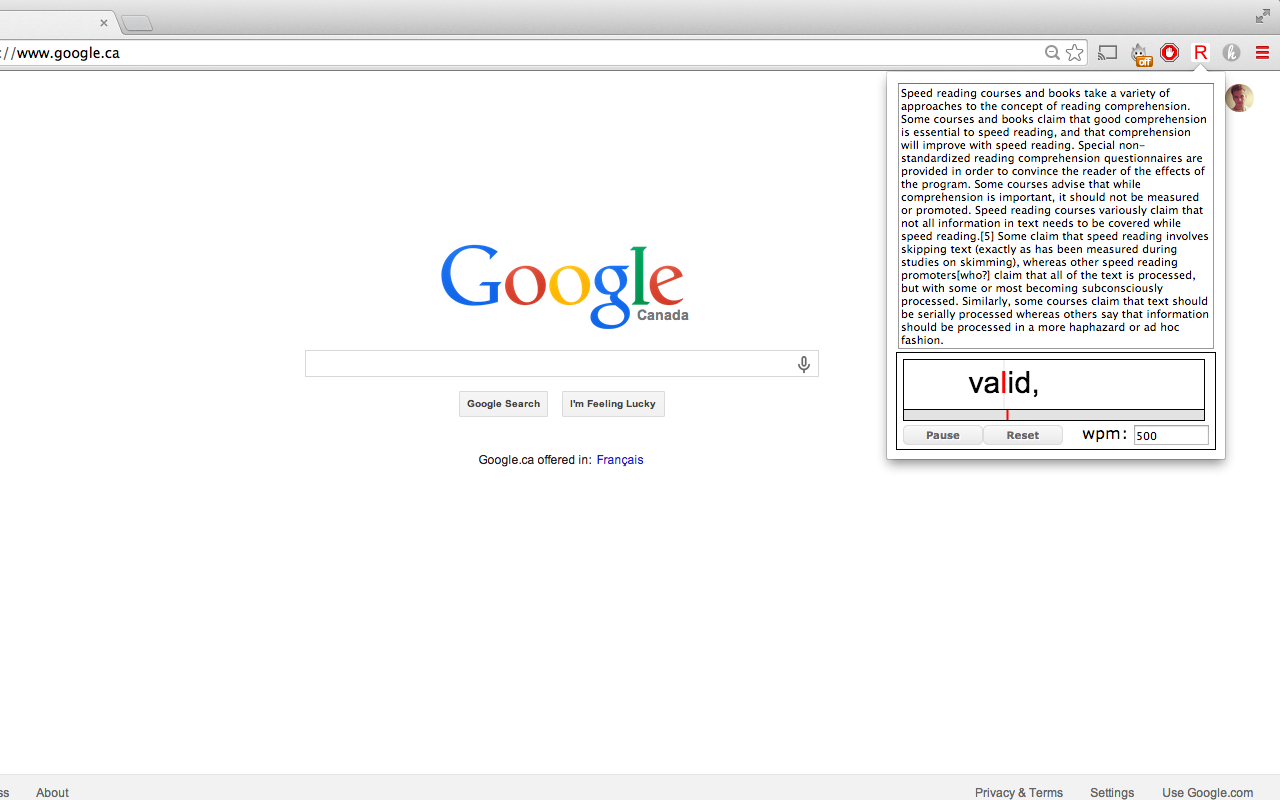
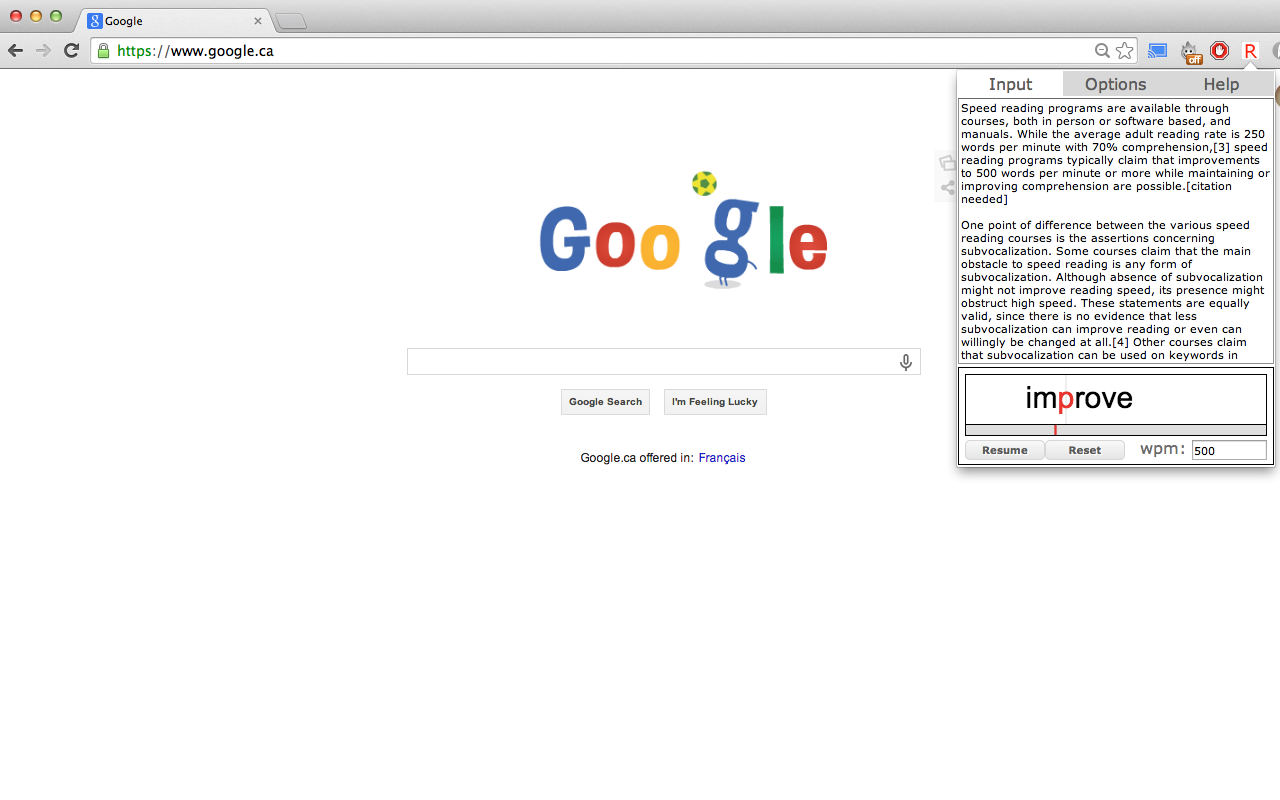
Fixed layout of popup
Popup was overflowing weird with scrollbars

diff --git a/chrome/popup.css b/chrome/popup.css
@@ -3,6 +3,10 @@
 	font-family:Verdana !important;
 	outline: none;
 }
+::-webkit-scrollbar 
+{ 
+    display: none; 
+}
 body
 {
 	margin: 0px;
@@ -38,6 +42,12 @@ h2, h3
 	margin-bottom: 2px !important;
 }
 
+/*input
+{
+	vertical-align: middle; margin: 0px;
+	margin-top: 5px;
+}*/
+
 #readsy_text
 {
 	width: 316px;
@@ -65,9 +75,4 @@ h2, h3
 	border-top-left-radius:5px;
 	border-top-right-radius:5px;
 	*/
-}
-
-#navigation a:hover
-{
-	background-color: #ccc;
 }
